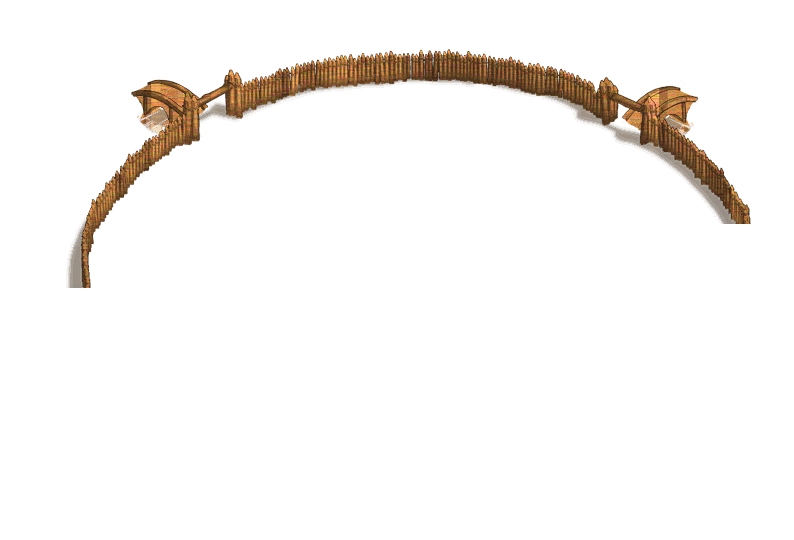
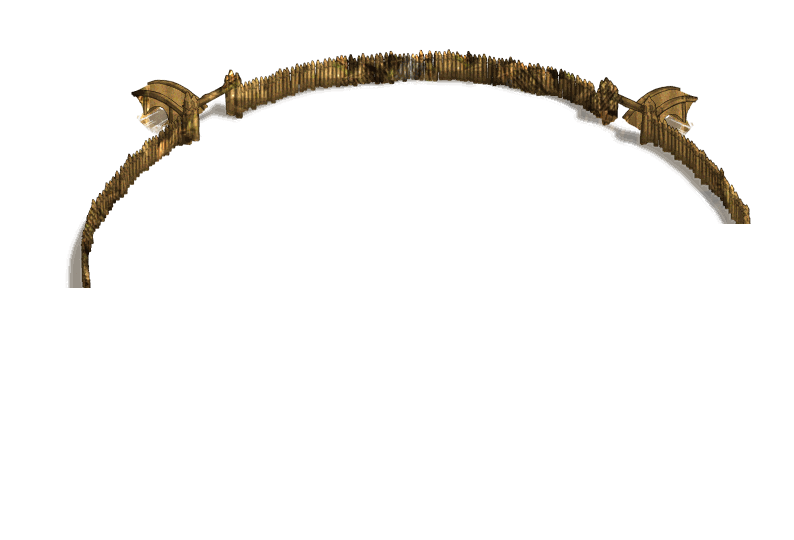
T63: gaul palisade re-skinned with real tsowiki.eu TSO wood art
User request: "پرچین با استفاده از https://tsowiki.eu/ تغییر بده" -
the T62 palisade used synthesized plank stripes; swap in real TSO art.

The wiki has no dedicated fence/palisade asset (sitemap + search index
checked), so the material is patchworked from crops of real TSO wood
buildings on tsowiki.eu: s_pirate_hut01 (weathered plank walls/stacks)
and b_watchtower_lvl_04 (gallery log beams). 240 feathered random
placements -> wood tile -> same T62 silhouette-preserving fill re-lit
by original luminance; g33 ring Top/Bottom (794x540) + big (184x179),
ltr mirrored, palette-quantized (24-29KB per ring piece).

Deployed to img_rtl + img_ltr (12 files). Cache bust: g33 urls only
?v=60 -> v=61 in fa-FA compact1/2.css, imports v=61, html.php
compact.css?v=21. g31/g32 stay at v=60.

Verified: all 5 spot-checked URLs 200 at new sizes; browser render of
the served sprites matches the compose sheet; silhouettes unchanged.
Backups: /root/backups/t63-gaul-img_{rtl,ltr}-bak.

Changed region(s): [[0.0907, 0.0889, 0.937, 0.5333]]

diff --git a/gpackcdn/gpack/lang/fa-FA/compact2.css b/gpackcdn/gpack/lang/fa-FA/compact2.css
@@ -72,19 +72,19 @@
 }
 
 .buildingsV3 img.g33Top {
-    background-image: url('../../img_rtl/g/buildings2019/gaul/g33Top-rtl.png?v=60');
+    background-image: url('../../img_rtl/g/buildings2019/gaul/g33Top-rtl.png?v=61');
     width: 794px;
     height: 540px
 }
 
 .buildingsV3 img.g33Bottom {
-    background-image: url('../../img_rtl/g/buildings2019/gaul/g33Bottom-rtl.png?v=60');
+    background-image: url('../../img_rtl/g/buildings2019/gaul/g33Bottom-rtl.png?v=61');
     width: 794px;
     height: 540px
 }
 
 .buildingsV3 img.g33.big {
-    background-image: url('../../img_rtl/g/buildings2019/gaul/big/g33-rtl.png?v=60');
+    background-image: url('../../img_rtl/g/buildings2019/gaul/big/g33-rtl.png?v=61');
     width: 184px;
     height: 179px
 }

diff --git a/gpackcdn/gpack/lang/fa-FA/compact1.css b/gpackcdn/gpack/lang/fa-FA/compact1.css
@@ -462,7 +462,7 @@ body.buildingsV3.perspectiveBuildings div#background.showWall.teuton:after {
 }
 
 body.buildingsV3.perspectiveBuildings div#background.showWall.gaul:after {
-    background-image: url('../../img_rtl/g/buildings2019/gaul/g33Bottom-rtl.png?v=60'),url('../../img_rtl/g/buildings2019/gaul/g33Top-rtl.png?v=60')
+    background-image: url('../../img_rtl/g/buildings2019/gaul/g33Bottom-rtl.png?v=61'),url('../../img_rtl/g/buildings2019/gaul/g33Top-rtl.png?v=61')
 }
 
 body.buildingsV3.perspectiveBuildings div#background.showWall.egyptian:after {

diff --git a/gpackcdn/gpack/lang/fa-FA/compact.css b/gpackcdn/gpack/lang/fa-FA/compact.css
@@ -25,8 +25,8 @@
 
 
 @import "fontiran.css";
-@import "compact1.css?v=60";
-@import "compact2.css?v=60";
+@import "compact1.css?v=61";
+@import "compact2.css?v=61";
 @import "compact3.css";
 @import url("../../css_rtl/imports_compressed.css");
 

diff --git a/application/views/html.php b/application/views/html.php
@@ -99,7 +99,7 @@ if ($t26ov === '1') {
     <meta http-equiv="imagetoolbar" content="no"/>
     
     <meta name="content-language" content="<?php echo LANG_UR; ?>"/>
-    <link href="<?= GP_LOCATION ?>lang/<?php echo LANG_UR; ?>/compact.css?v=20" rel="stylesheet" type="text/css"/>
+    <link href="<?= GP_LOCATION ?>lang/<?php echo LANG_UR; ?>/compact.css?v=21" rel="stylesheet" type="text/css"/>
     <link href="<?= GP_LOCATION ?>lang/<?php echo LANG_UR; ?>/lang.css" rel="stylesheet" type="text/css"/>
 	<link href="<?= GP_LOCATION ?>lang/<?php echo LANG_UR; ?>/fixes.css?rev18" rel="stylesheet" type="text/css"/>
     <link href="/gpackcdn/gpack/mobile-responsive.css?v=11" rel="stylesheet" type="text/css"/>
